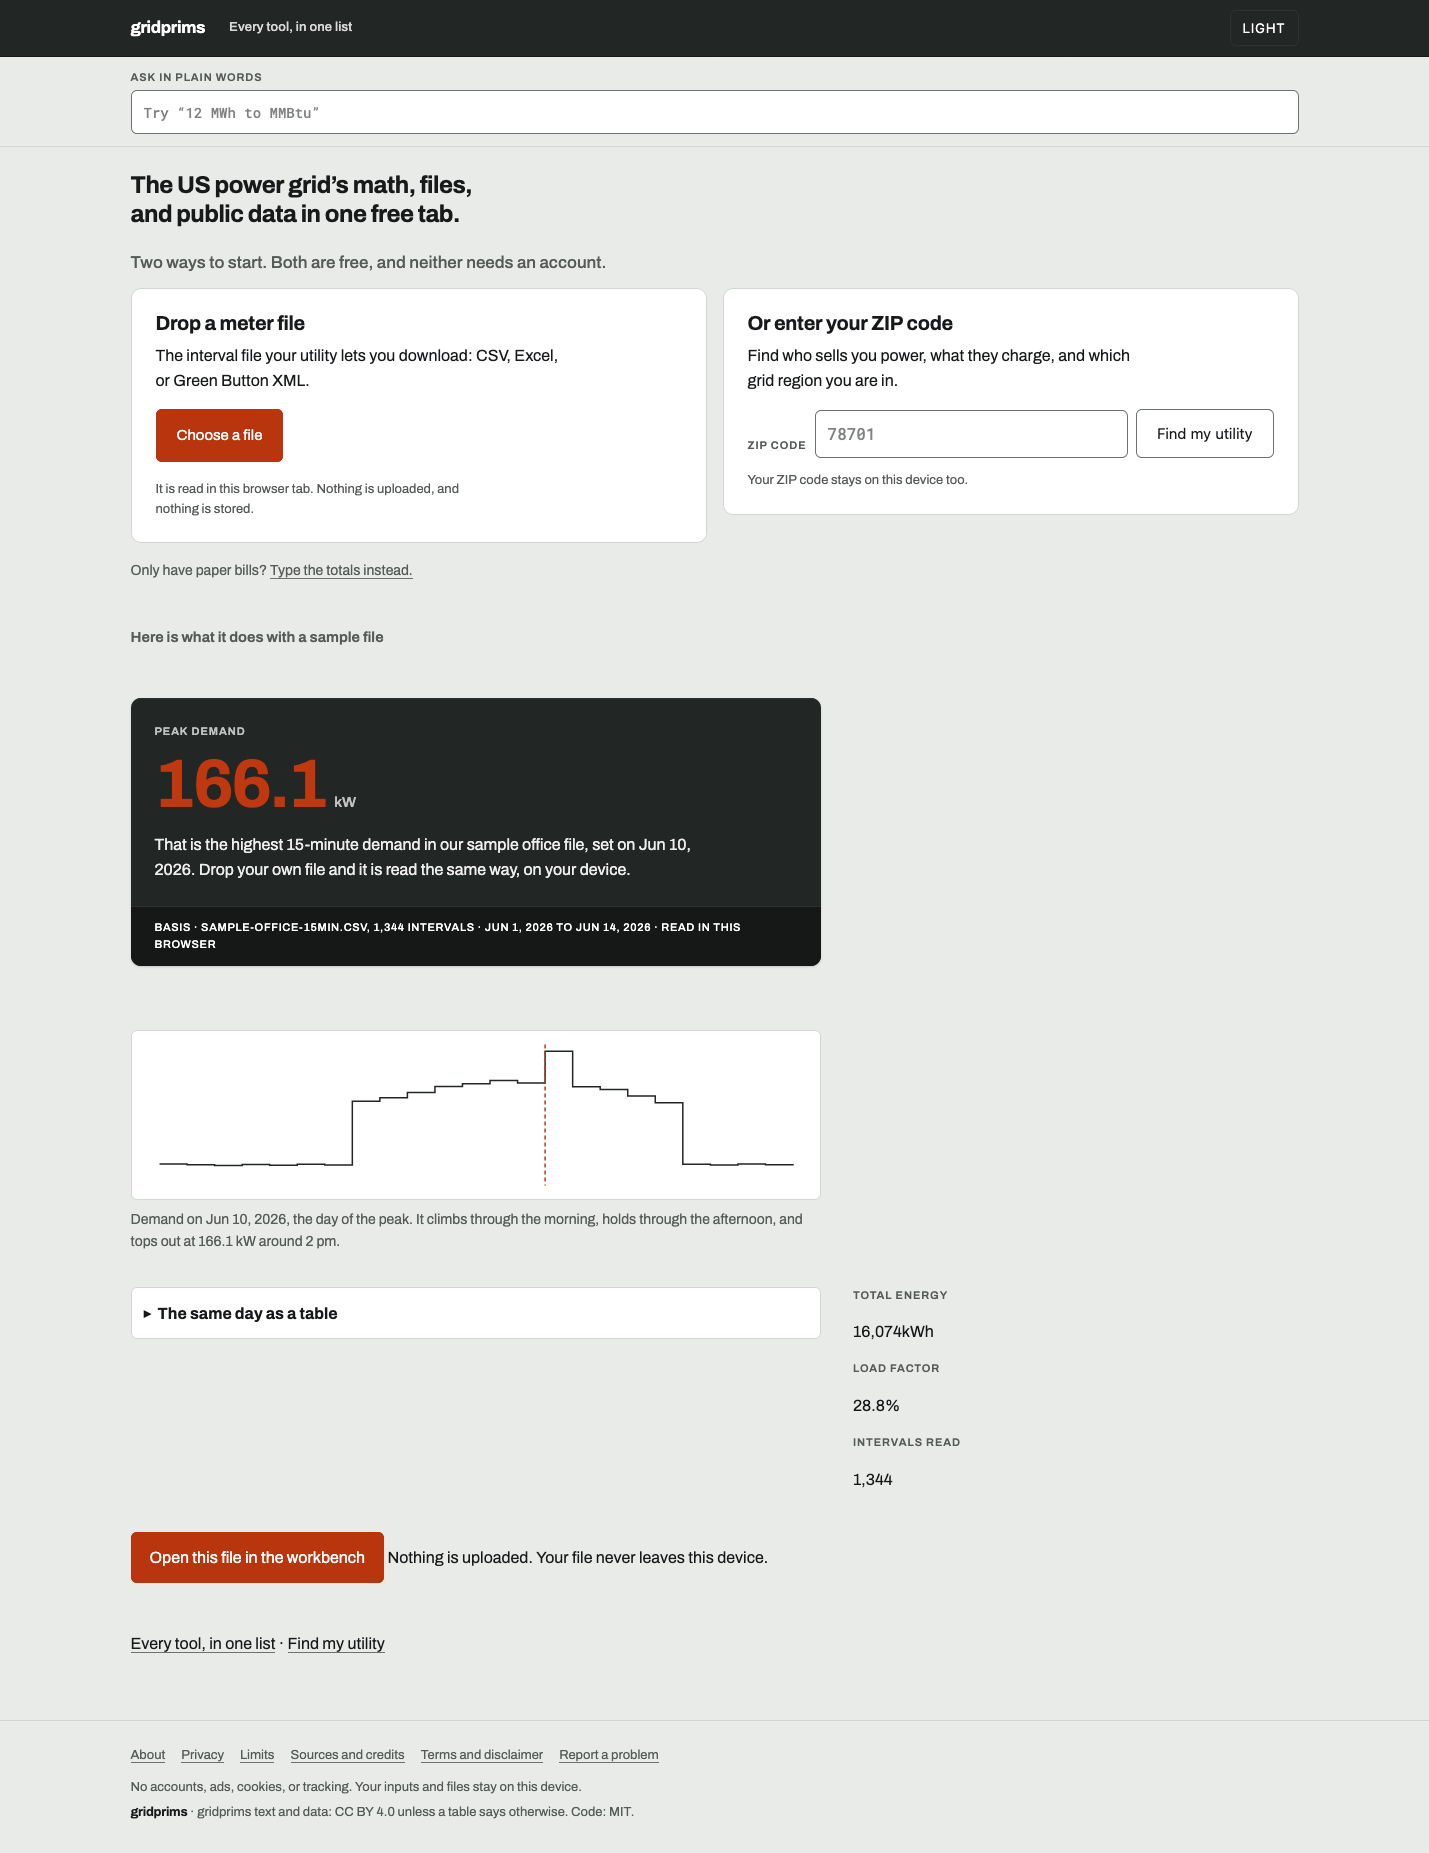
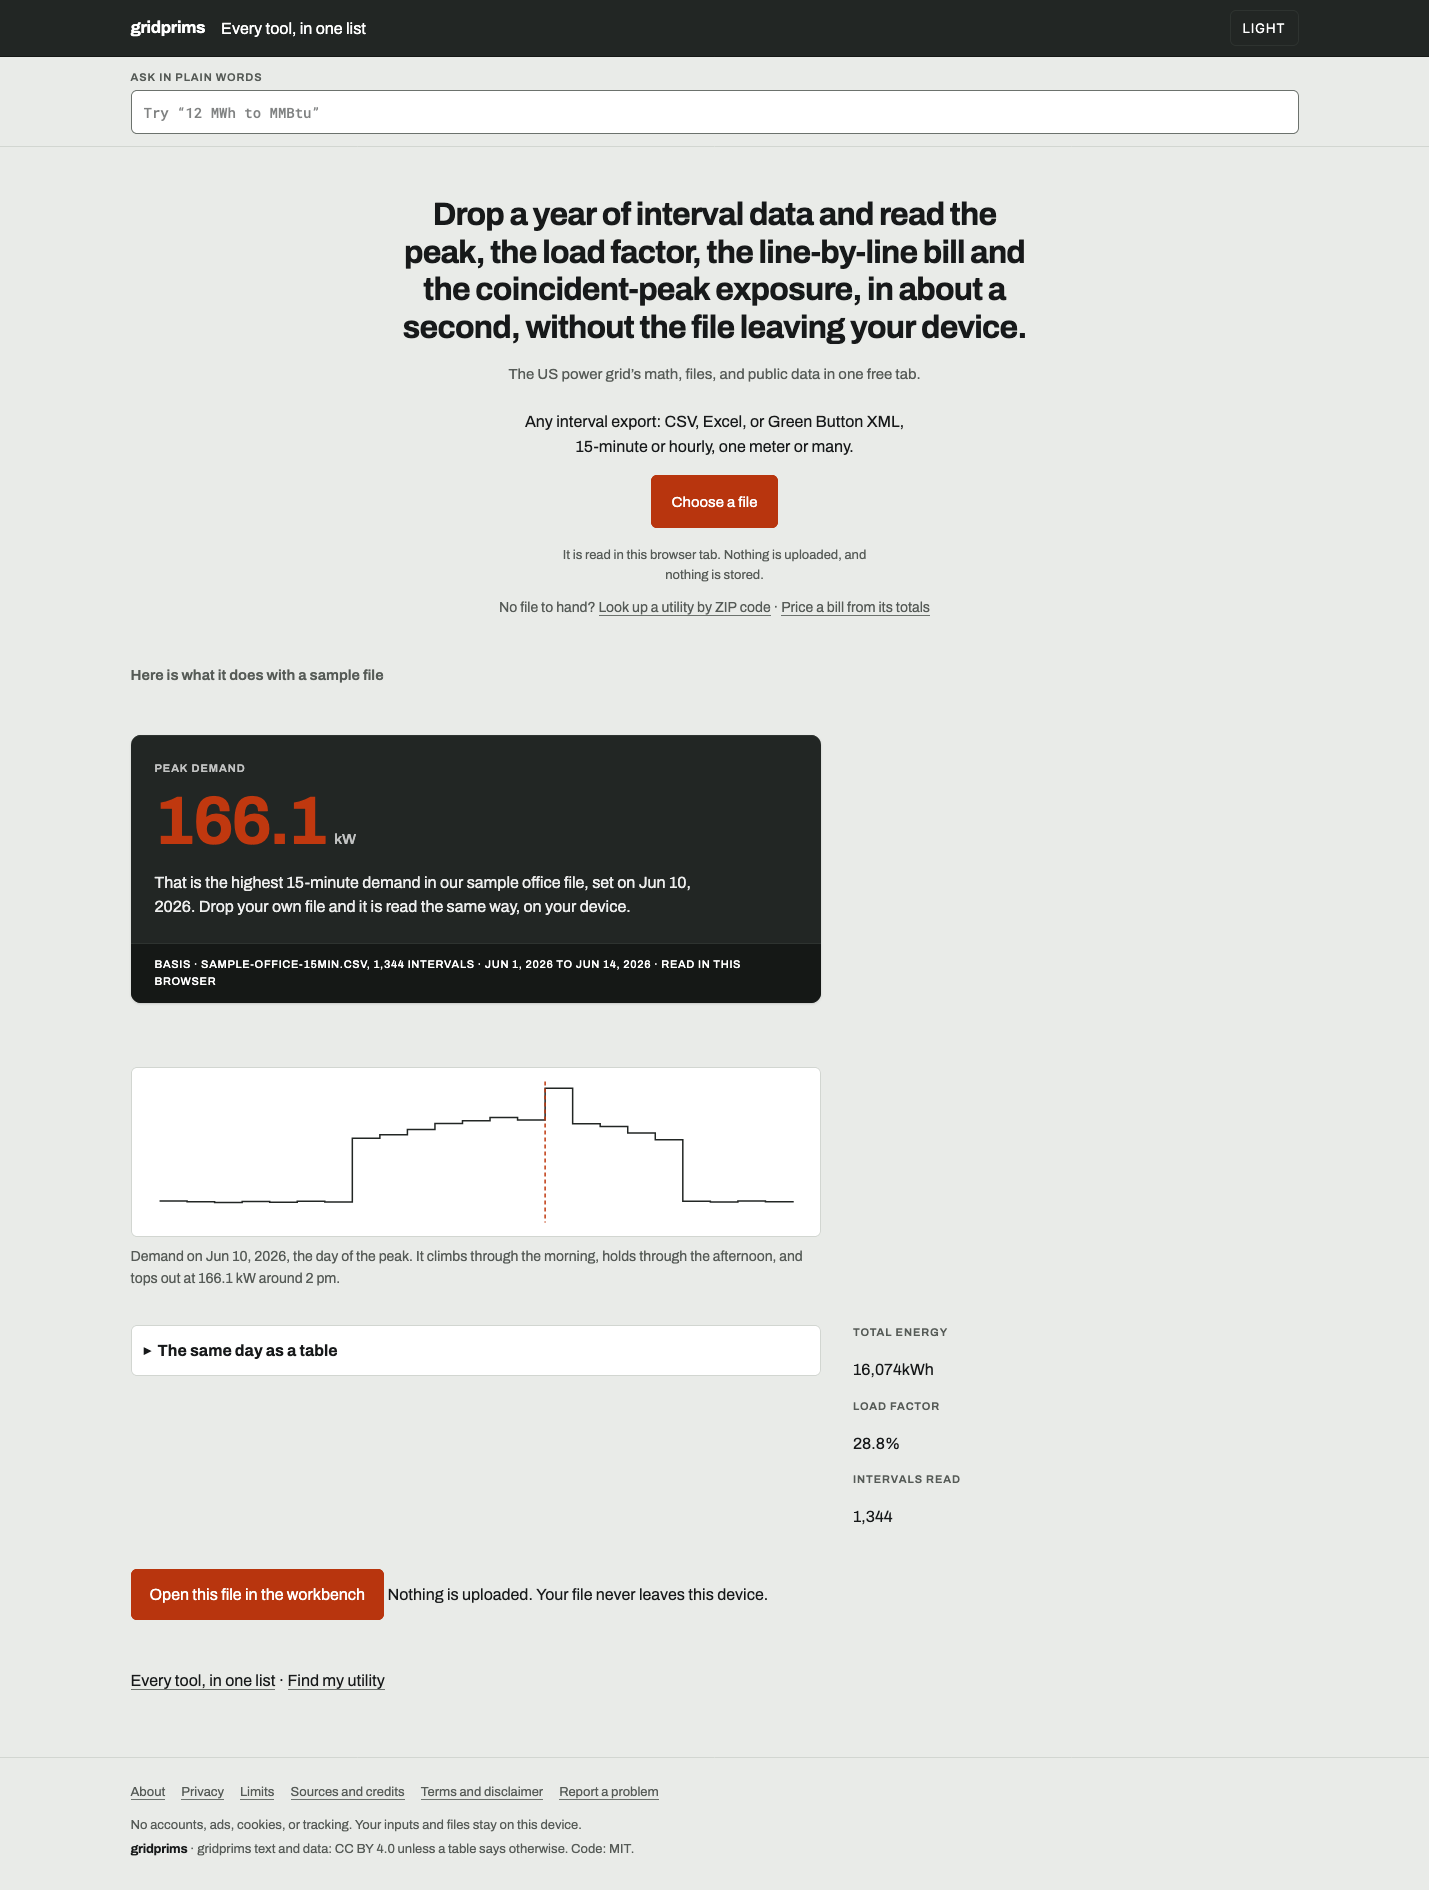
feat(site): centre the opening act and lead with the job
The page read lopsided: the container was centred but the opening sat
in a two-column grid with an empty right half, so the eye started at
the far left of a wide screen beside dead space. The opening is now
one centred column of 46rem holding one headline and one action, and
the instrument below keeps the full width.

The headline was the abstract positioning line with the actual job
demoted to small muted text. They are swapped: a grid professional now
reads "Drop a year of interval data and read the peak, the load
factor, the line-by-line bill and the coincident-peak exposure, in
about a second, without the file leaving your device" first, with the
positioning line beneath it and the live sample plate as proof.

diff --git a/site/styles/site.css b/site/styles/site.css
@@ -318,13 +318,18 @@ blockquote { border-left: 1px solid var(--field-border); margin: var(--s3) 0; pa
 .cell-section { color: var(--muted); font-size: .875rem; font-weight: 600; margin: 0 0 var(--s1); }
 
 /* Home: the tagline as a modest heading, and lanes close enough that both start on a phone's first screen. */
-.home-title { font-size: 1.5rem; line-height: 1.2; letter-spacing: -0.02em; margin: var(--s5) 0 var(--s4); }
+.home-title { max-width: 46rem; margin: var(--s7) auto var(--s3); text-align: center; font-size: 2rem; line-height: 1.18; letter-spacing: -0.025em; font-weight: 700; }
 .lane h2 { margin: var(--s6) 0 var(--s3); }
-.home-title { max-width: 30ch; }
+
 
 /* The doors: what a visitor can give this site, said before anything else. */
 .start-title { font-size: 1.0625rem; font-weight: 500; color: var(--muted); letter-spacing: 0; margin: 0 0 var(--s4); max-width: 60ch; }
-.start { margin: var(--s5) 0 var(--s7); }
+.start { margin: var(--s4) auto var(--s7); max-width: 46rem; text-align: center; }
+.start .door { background: none; border: 0; padding: 0; }
+.start .door h3 { display: none; }
+.start .door > p { margin-left: auto; margin-right: auto; }
+.start .door-form { justify-content: center; }
+.start-sub { margin: 0 0 var(--s5); color: var(--muted); font-size: .9375rem; }
 .start-title { font-weight: 400; }
 .start-else { margin: var(--s3) 0 0; color: var(--muted); font-size: .875rem; }
 .doors { margin: var(--s5) 0 var(--s7); display: grid; gap: var(--s4); }
@@ -341,7 +346,7 @@ blockquote { border-left: 1px solid var(--field-border); margin: var(--s3) 0; pa
 .proof-title { font-size: .9375rem; font-weight: 600; color: var(--muted); letter-spacing: 0; margin: 0 0 var(--s3); }
 @media (min-width: 760px) {
   .doors { grid-template-columns: 1fr 1fr; align-items: start; }
-  .start-title { max-width: 62ch; font-size: 1.1875rem; line-height: 1.45; }
+
 }
 
 /* The curve beside the plate. Two classes, so these beat the later .chart svg rules
@@ -374,13 +379,13 @@ blockquote { border-left: 1px solid var(--field-border); margin: var(--s3) 0; pa
   .command .wrap { padding-top: var(--s2); padding-bottom: var(--s2); }
   .proof { margin-bottom: var(--s3); }
   .proof-actions .unit-hint { display: none; }
-  .home-title { font-size: 1rem; line-height: 1.25; margin: var(--s2) 0 var(--s1); }
+  .home-title { font-size: 1.1875rem; line-height: 1.25; margin: var(--s3) auto var(--s2); }
   .lane h2 { margin: var(--s3) 0 var(--s1); }
   .lane .tool-cell { padding: var(--s2) var(--s2) var(--s1); }
   .proof-title { margin-bottom: var(--s2); }
   /* Both doors have to be reachable without scrolling, so they lose their padding, not their words. */
   .doors { margin: var(--s3) 0 var(--s4); gap: var(--s3); }
-  .start-title { font-size: .875rem; line-height: 1.4; margin-bottom: var(--s2); }
+  .start-sub { font-size: .8125rem; margin-bottom: var(--s3); }
   .start { margin: var(--s3) 0 var(--s4); }
   .start-else { margin-top: var(--s2); font-size: .8125rem; }
   .door { padding: var(--s3); }
